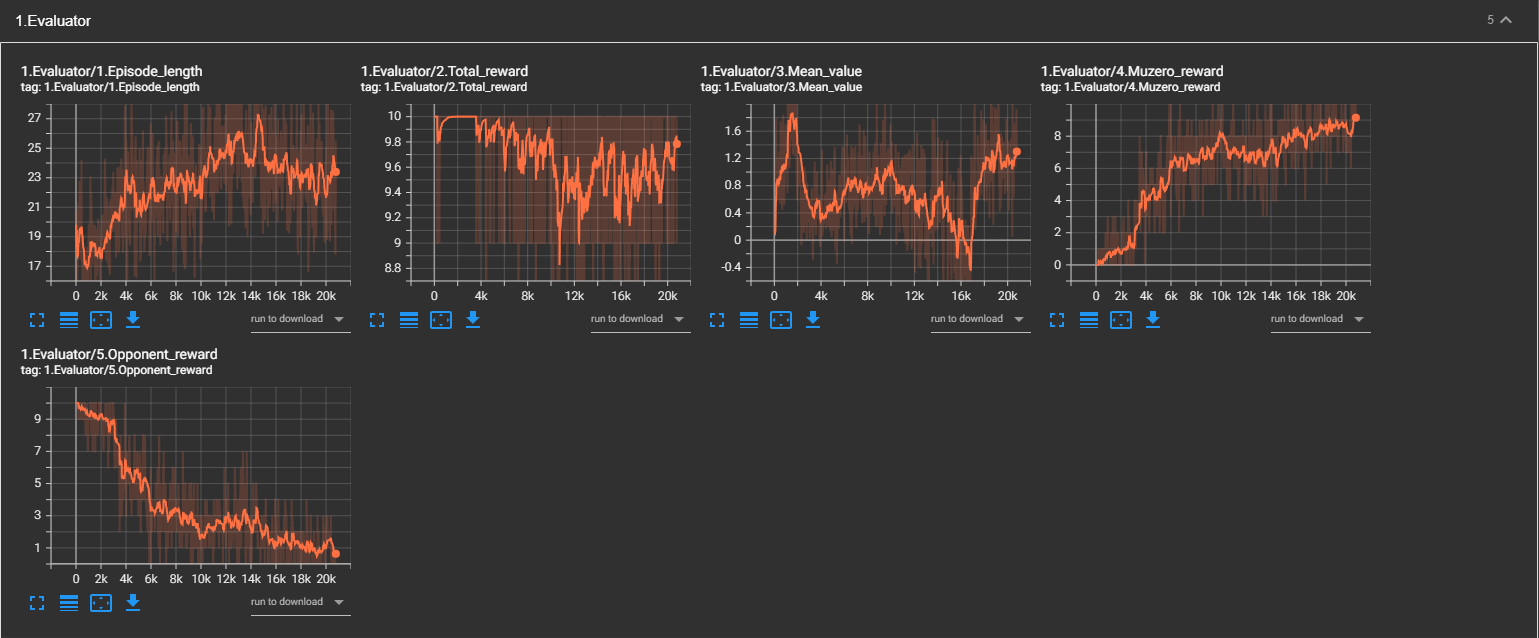
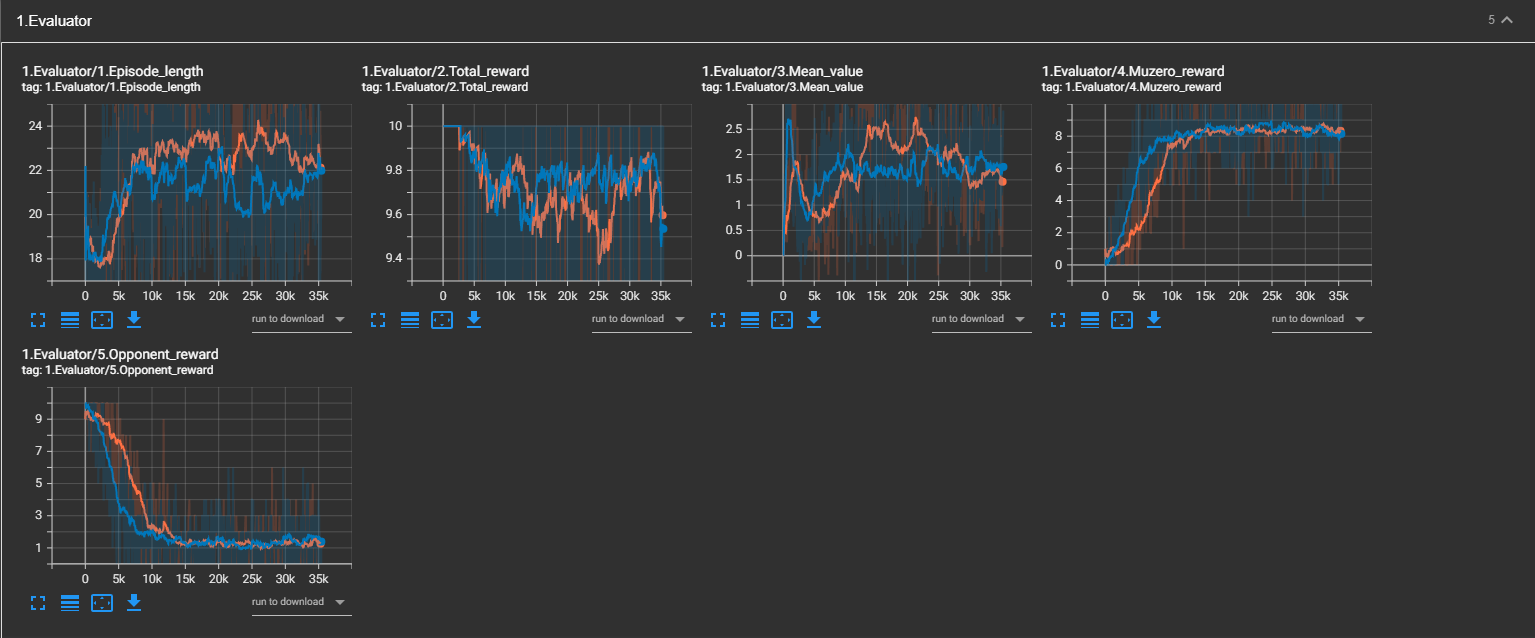
Updated tensorboard metrics

diff --git a/README.md b/README.md
@@ -137,16 +137,16 @@ $ ./examples/connect4/muzero_connect4 --devices="cpu" --num_simulations 50 --pat
 The choice of using C++ was for environment constraints and added performance that could be gained instead of dealing with threading in python. 
 There are certainly many improvements that can be made to this codebase, and they are welcomed.
 
-The following metrics are on training the Connect4 environment on a stock Intel 7820X, 64GB of system memory, Nvidia 3090, running on Ubuntu 20.04 using the Release build flags. The runtime configuration is given in the command window below.
-- Total training time of 4:54:17 
+The following metrics are on training the Connect4 environment on a stock Intel 7820X, 64GB of system memory, Nvidia 3090, running on Ubuntu 20.04 using the Release build flags. The runtime configuration is given in the command window below for an extended training session. Note that Connect4 in much fewer training steps.
+- Total training time of 9:48:43
 - ~13.5 training steps per second
 - ~39.7 self play steps per second
 
 ```shell
-$ ./examples/connect4/muzero_connect4 --num_actors=10 --initial_inference_batch_size=10 --recurrent_inference_batch_size=10 --devices="cuda:0,cuda:0" --batch_size=256 --min_sample_size=512 --value_loss_weight=0.25 --td_steps=42 --num_unroll_steps=5 --checkpoint_interval=10000 --model_sync_interval=1000 --num_simulations=50 --max_training_steps=250000 --path /home/<USER>/Documents/muzero-cpp/examples/connect4/reanalyze-00
+$ ./examples/connect4/muzero_connect4 --num_actors=10 --initial_inference_batch_size=10 --recurrent_inference_batch_size=10 --devices="cuda:0,cuda:0" --batch_size=256 --min_sample_size=512 --value_loss_weight=0.25 --td_steps=42 --num_unroll_steps=5 --checkpoint_interval=10000 --model_sync_interval=1000 --num_simulations=50 --max_training_steps=500000 --path /home/<USER>/Documents/muzero-cpp/examples/connect4/reanalyze-00
 ``` 
 
-The full training statistics for this run can be found at the Tensorboard.dev page [here](https://tensorboard.dev/experiment/V4JoPZKAQM6gqsDvtbSGeA/#scalars&_smoothingWeight=0.906).
+The full training statistics for this run can be found at the Tensorboard.dev page [here](https://tensorboard.dev/experiment/hLfo8K8fREi4uWP6LrlwIA/#scalars&_smoothingWeight=0.914).
 
 
 ## Tensorboard Metrics
